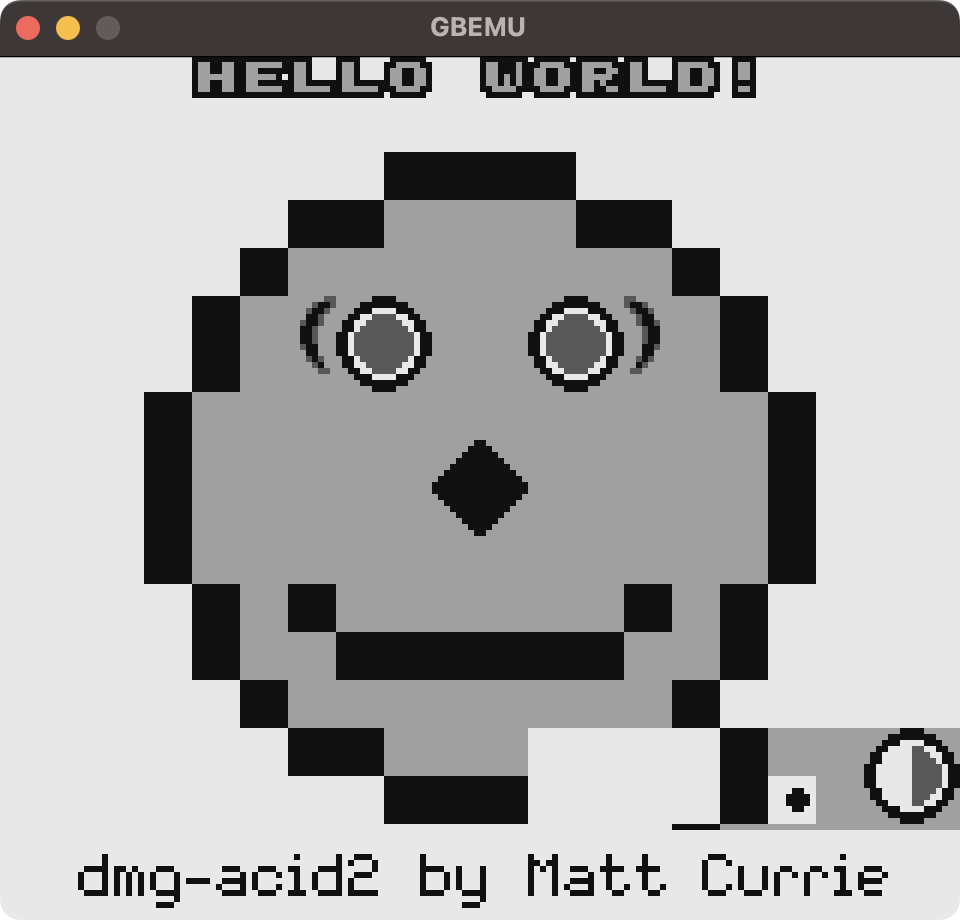
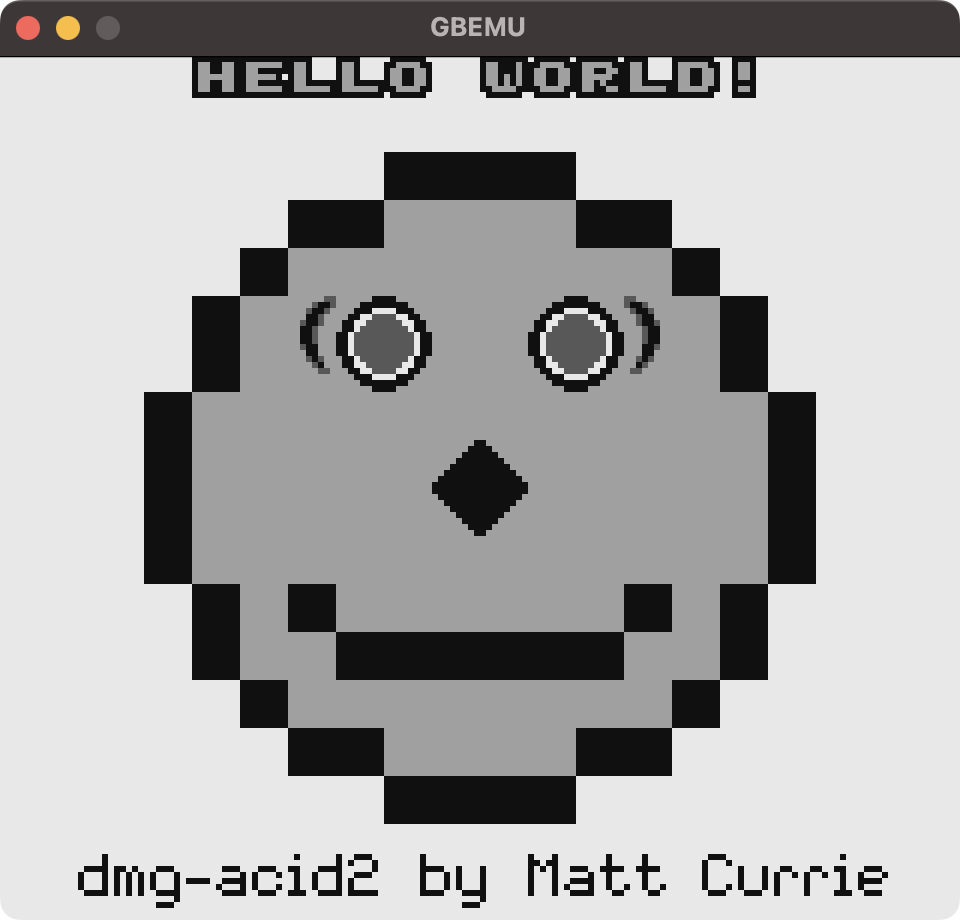
Windowの描画を実装（dmg-acid2をパス）

Changed region(s): [[0.6875, 0.7913, 1.0, 0.913], [0.5312, 0.7913, 0.7188, 0.913]]

diff --git a/src/ppu.cc b/src/ppu.cc
@@ -127,6 +127,9 @@ unsigned Ppu::Step() {
       unsigned elapsed_cycles_in_line =
           elapsed_cycles_in_frame_ % kScanlineDuration;
       if (elapsed_cycles_in_line == kOamScanDuration) {
+        if (wy_ == ly_ && wx_ <= 166) {
+          window_rendering_started_ = true;
+        }
         WriteCurrentLineToBuffer();
         scanned_oam_entries_.clear();
       }
@@ -162,9 +165,8 @@ unsigned Ppu::Step() {
     }
   } else if (ly_ == lcd::kHeight) {
     ppu_mode_ = PpuMode::kVBlank;
-
-    // VBlankに入ったらバッファの準備完了フラグを立てる
     is_buffer_ready_ = true;
+    window_internal_line_counter_ = 0;
   }
 
   // STATを更新する
@@ -309,20 +311,23 @@ void Ppu::WriteBackgroundOnScanline(
   }
 }
 
-void Ppu::WriteWindowOnScanline(ColorIdArray<lcd::kWidth>& color_ids) const {
-  // Windowがスキャンラインと交わっていないなら何もしない
+void Ppu::WriteWindowOnScanline(ColorIdArray<lcd::kWidth>& color_ids) {
+  if (!window_rendering_started_) {
+    return;
+  }
+
   if (wy_ > ly_ || wx_ > 166) {
     return;
   }
 
   // スキャンラインと交わる左端のタイルを取得する
   int tile_map_pos_x = 0;
-  int tile_map_pos_y = (ly_ - wy_) / kTileSize;
+  int tile_map_pos_y = window_internal_line_counter_ / kTileSize;
   TileMapArea area = lcdc_.GetWindowTileMapArea();
   TileDataAddressingMode mode = lcdc_.GetTileDataAddressingMode();
   const std::uint8_t* tile =
       GetTileFromTileMap(tile_map_pos_x, tile_map_pos_y, area, mode);
-  int tile_row_offset = (ly_ - wy_) % kTileSize;
+  int tile_row_offset = window_internal_line_counter_ % kTileSize;
 
   // 左から右にタイルマップを移動しながら、
   // スキャンラインと交差するタイルの行を配列に書き込む
@@ -340,6 +345,8 @@ void Ppu::WriteWindowOnScanline(ColorIdArray<lcd::kWidth>& color_ids) const {
     tile_map_pos_x++;
     tile = GetTileFromTileMap(tile_map_pos_x, tile_map_pos_y, area, mode);
   }
+
+  window_internal_line_counter_++;
 }
 
 void Ppu::WriteObjectsOnScanline(

diff --git a/src/ppu.h b/src/ppu.h
@@ -303,7 +303,7 @@ class Ppu {
   void WriteBackgroundOnScanline(ColorIdArray<lcd::kWidth>& color_ids) const;
 
   // スキャンラインに沿ってWindowレイヤの各ピクセルのカラーIDを配列に書き出す。
-  void WriteWindowOnScanline(ColorIdArray<lcd::kWidth>& color_ids) const;
+  void WriteWindowOnScanline(ColorIdArray<lcd::kWidth>& color_ids);
 
   // スキャンラインに沿ってObjectレイヤの各ピクセルのカラーIDとそのピクセルが属する
   // オブジェクトのOAMエントリを配列に書き出す。
@@ -361,6 +361,12 @@ class Ppu {
   // OAM Scanで使用するバッファ。
   // 現在のスキャンライン上で描画の対象となるオブジェクトをX座標の小さい順に格納する。
   std::vector<OamEntry> scanned_oam_entries_{};
+
+  // Windowの描画開始フラグ。
+  bool window_rendering_started_{false};
+  // Windowの行カウンタ。
+  // Windowの描画開始後、1行描画するごとにインクリメントする。
+  unsigned window_internal_line_counter_{};
 };
 
 }  // namespace gbemu
